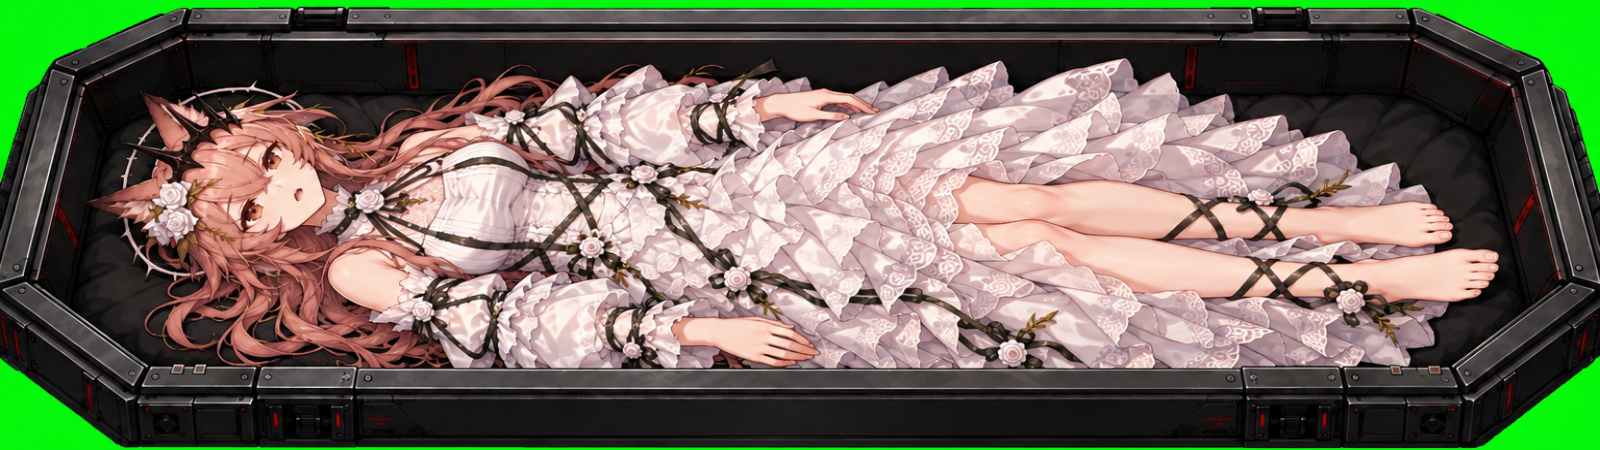
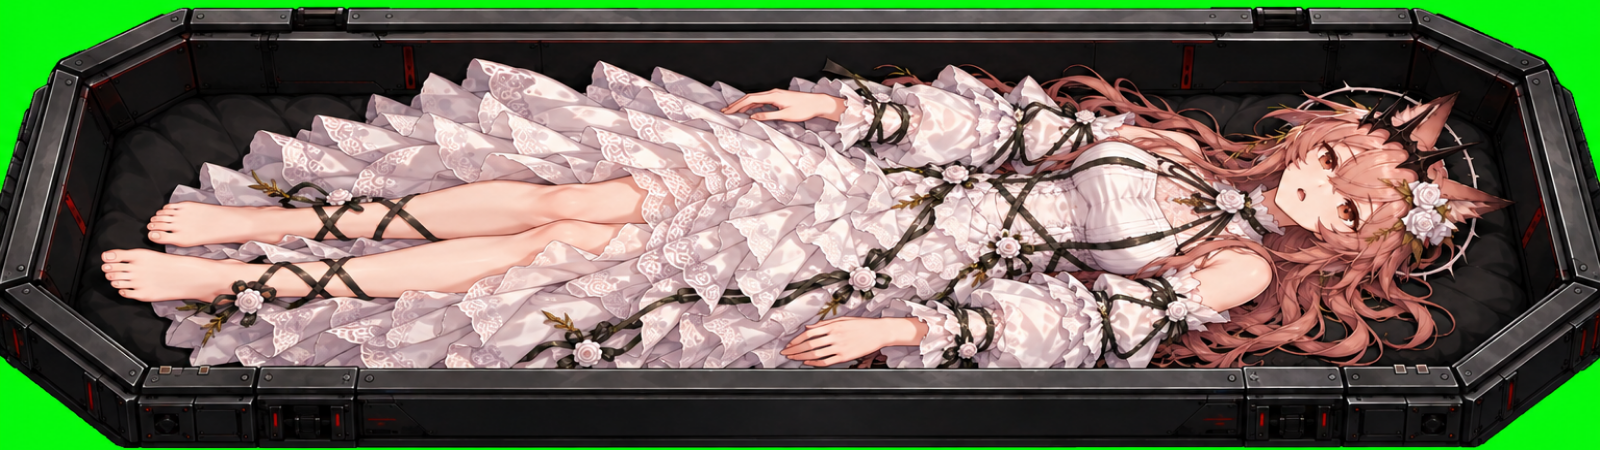
fix: refine cimei trophy presentation

diff --git a/src/content/characters/characters.test.ts b/src/content/characters/characters.test.ts
@@ -478,6 +478,9 @@ describe("data-driven character registry", () => {
     expect(wData.trophyGallery.closeups.find((point) => point.id === "boots")?.variants?.[0]?.image).toBe("/assets/characters/w-trophy-detail-boots-p1.png");
     expect(texasData.trophyGallery.closeups.find((point) => point.id === "boots")?.variants?.[0]?.image).toBe("/assets/characters/texas-trophy-detail-boots-removed.png");
     expect(ireneData.trophyGallery.closeups.find((point) => point.id === "shoes")?.variants?.[0]?.image).toBe("/assets/characters/irene-trophy-detail-shoes-p1.png");
+    expect(cimeiData.trophyGallery.closeups).toHaveLength(4);
+    expect(cimeiData.trophyGallery.closeups.some((point) => point.id === "hands")).toBe(false);
+    expect(cimeiData.trophyGallery.closeups.find((point) => point.id === "ankle-ribbons")?.variants?.[0]?.image).toBe("/assets/characters/cimei-trophy-detail-ankle-ribbons-p1.png");
     expect(plumeData.trophyGallery.closeups.find((point) => point.id === "boots")?.variants?.[0]?.image).toBe("/assets/characters/plume-trophy-detail-boots-p1.png");
     expect(platinumData.trophyGallery.closeups.find((point) => point.id === "feet")?.variants?.[0]?.image).toBe("/assets/characters/platinum-trophy-detail-feet-p1.png");
     expect(lapplandData.trophyGallery.closeups.find((point) => point.id === "feet")?.variants?.[0]?.image).toBe("/assets/characters/lappland-the-decadenza-trophy-detail-feet-white-socks.png");

diff --git a/docs/art/cimei-complete-art-prompts.md b/docs/art/cimei-complete-art-prompts.md
@@ -22,7 +22,7 @@
 - `cimei-threatened.png`：基于轻松态只改为临刑前的紧张和警觉，瞳孔与嘴形在手机尺寸可辨；不生成枪械或发牌员手臂。
 - `cimei-unconscious-reclined.png`：同一牌桌腰部镜头，实弹击发后失去生命体征并轻微后仰，手臂松弛；不画椅子、床、枪、血迹或背景。
 - `cimei-defeated-summary-chair.png`：完整遗体瘫坐在有靠背、有双扶手、有四只稳定脚的深色工业椅中，头与四肢自然下垂，人物、双足和整把椅子都在 2:3 画布内；椅外透明。
-- `cimei-trophy-defeated.png`：俯视横构图，完整遗体横躺在窄深色工业收纳舱中，头在左、足在右，人物和舱体全部入框；输出后受控裁切缩放为 1600×450，舱体外透明。
+- `cimei-trophy-defeated.png`：俯视横构图，完整遗体横躺在窄深色工业收纳舱中，人物和舱体全部入框；输出后先受控裁切缩放为 1600×450，再按最终审查意见直接水平翻转为头在右、足在左，舱体外透明。翻转仅使用确定性像素变换，不调用图像生成。
 - `cimei-trophy-gallery-headshot.png`：死亡后的档案式头肩像，紧凑 5:7 构图，完整保留耳尖、荆棘环、下巴和领口，目光失焦且明显无生命体征，深色中性档案背景。
 - `cimei-trophy-gallery-full-subject.png`：俯视 2:3 透明角色层，完整遗体头上足下平躺，双手、双足、长发、荆棘环、裙摆与缎带均不裁切；与共享陈列舱逐像素对齐。
 - `cimei-trophy-gallery-left-subject.png`：同一陈列镜头的左侧蜷卧透明角色层，完整身体入框，保持身份、服装、比例与死亡状态。
@@ -30,9 +30,9 @@
 - `cimei-trophy-gallery-right-subject.png`：同一陈列镜头的右侧蜷卧透明角色层，与左侧姿势形成清晰镜像变化但不改变角色设计。
 - `cimei-trophy-detail-face.png`：方形近景，记录失焦琥珀眼、桃棕刘海与松弛嘴形；保持中性档案视角。
 - `cimei-trophy-detail-crown.png`：方形近景，记录黑色荆棘冠、白玫瑰、暗金叶片与浅色荆棘环的结构。
-- `cimei-trophy-detail-hands.png`：方形近景，记录松开的双手、腕部黑带、白花和蕾丝层次。
 - `cimei-trophy-detail-bodice.png`：方形近景，记录高领胸衣、白色褶皱、半透明蕾丝、交叉黑带与喉间玫瑰。
 - `cimei-trophy-detail-ankle-ribbons.png`：方形近景，记录两侧脚踝和足背的交叉黑带、白玫瑰扣与枝叶，不改变既有服装结构。
+- `cimei-trophy-detail-ankle-ribbons-p1.png`：以前一张足部图为身份、服装和环境基准，改用能看见脚掌与足弓的检查角度；画面只增加两只戴黑色检查手套的工作人员手，一手托住脚跟，另一手以拇指和手指按揉脚掌，保持非性化的档案检查构图。
 
 ## 最终输出规格
 
@@ -41,6 +41,6 @@
 - 收藏横幅：1600×450 RGBA。
 - 头肩像：1000×1400（5:7）。
 - 默认全身与三张姿势层：1024×1536 RGBA。
-- 五张局部记录：严格 1:1。
+- 四个局部兴趣点、共五张局部记录（含足部 p1）：严格 1:1。
 
 绿幕源图、验收母版与受控裁切中间件保存在 `art/source/cimei/`；最终 Web 资源保存在 `public/assets/characters/`。
